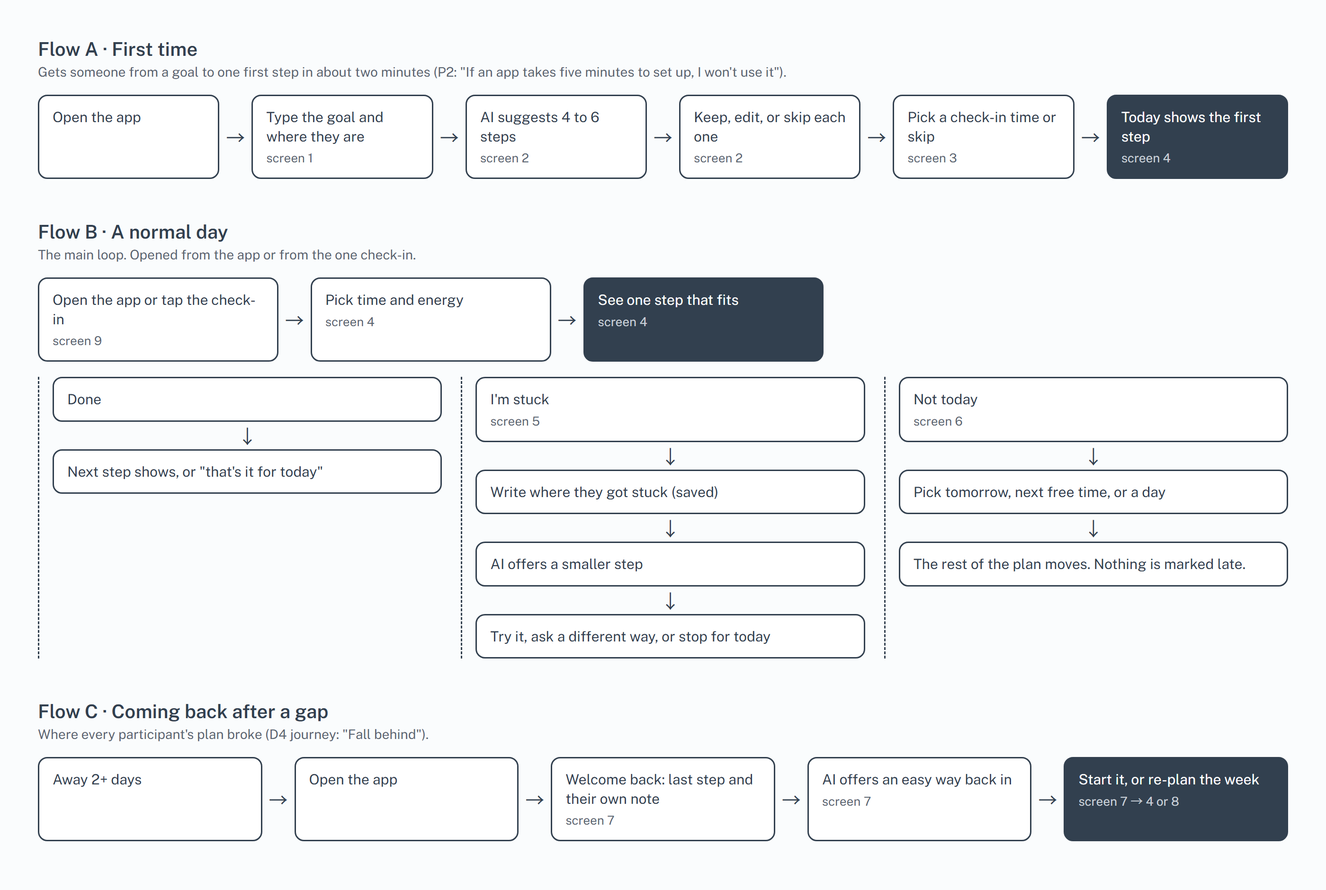
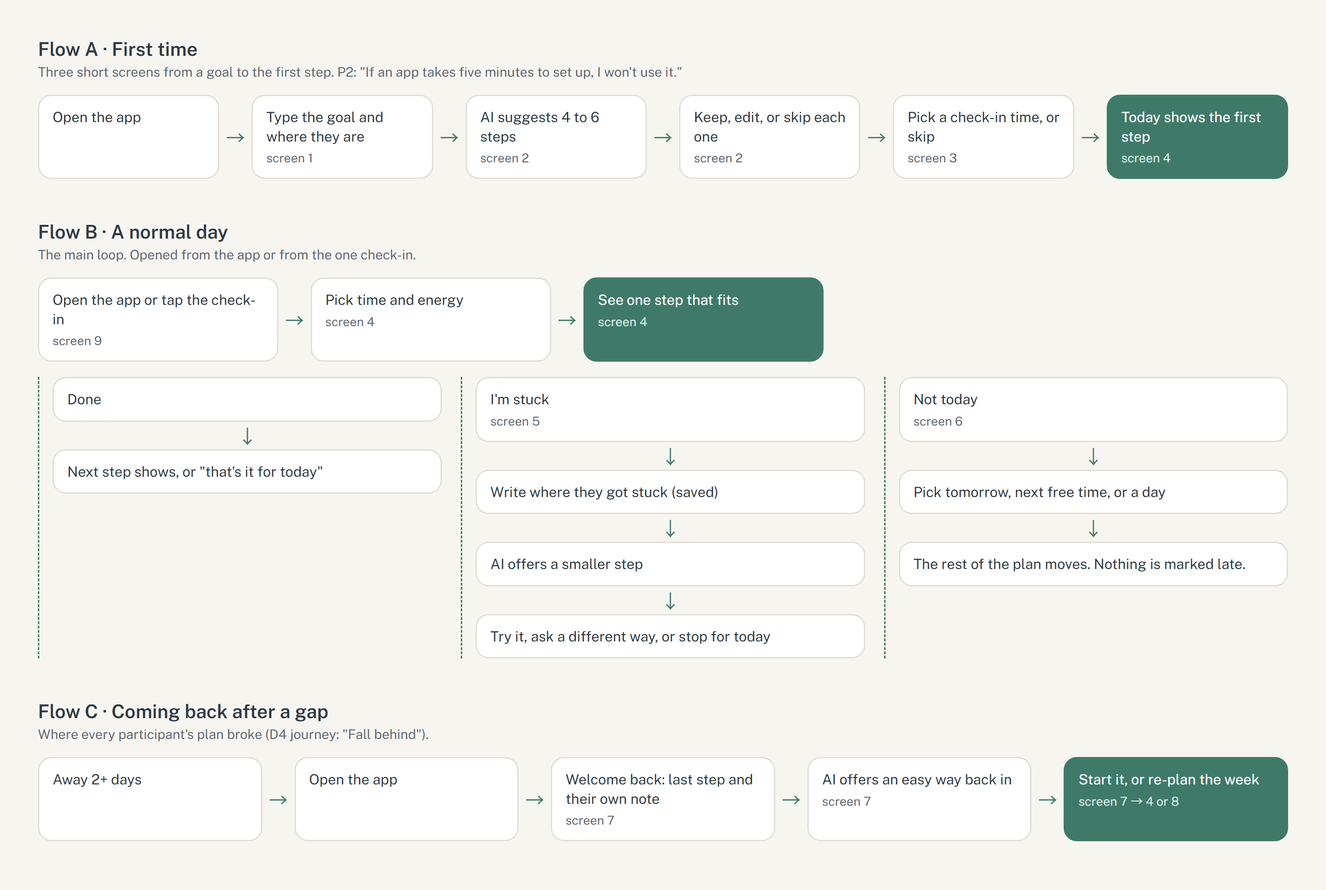
Restructure D5 as screen-by-screen walkthrough, fix consistency issues

diff --git a/index.html b/index.html
@@ -123,6 +123,12 @@
   .shot{ margin:26px 0 8px; }
   .shot img{ display:block; width:100%; height:auto; border:1px solid var(--line); background:#fff; }
 
+  /* ---- D5 screen walkthrough ---- */
+  .scr-group{ margin:34px 0 4px; color:var(--ink); }
+  .screens{ display:flex; flex-direction:column; }
+  .scr{ display:grid; grid-template-columns:200px 1fr; gap:28px; align-items:start; padding:24px 0; border-bottom:1px solid var(--line); scroll-margin-top:24px; }
+  .scr img{ display:block; width:100%; height:auto; }
+  .scr h4{ font-family:'Public Sans',sans-serif; font-weight:600; font-size:1rem; margin:4px 0 12px; }
   footer{ margin-top:70px; padding-top:22px; border-top:1px solid var(--line); color:var(--ink-faint); font-family:'IBM Plex Mono',monospace; font-size:12.5px; }
 
   @media (max-width:860px){
@@ -142,6 +148,7 @@
     section.doc h2{ font-size:1.6rem; }
     .persona{ flex-direction:column; }
     .stats{ gap:30px; }
+    .scr{ grid-template-columns:120px 1fr; gap:16px; }
   }
 
   @media print{
@@ -181,6 +188,9 @@
       <a class="sub" href="#p6">P6</a>
       <a href="#d4">Synthesis</a>
       <a href="#d5">Design (D5)</a>
+      <a class="sub" href="#d5-ia">IA &amp; flows</a>
+      <a class="sub" href="#d5-screens">Screens</a>
+      <a class="sub" href="#d5-mvp">MVP</a>
     </nav>
 
     <div class="content">
@@ -581,79 +591,108 @@
 
         <p class="lede measure" style="color:var(--ink);">The app gives you one small next step for your goal, based on how much time and energy you have right now. If you get stuck or skip a day, it makes the step smaller or moves it, so nothing piles up.</p>
 
-        <p class="measure">In the interviews, every plan broke down at the same point. It was after someone missed a day or got stuck (<a class="ref" href="#p1-q4f2">P1, Q4 follow-up</a>; <a class="ref" href="#p6-q4f2">P6, Q4 follow-up</a>; <a class="ref" href="#p2-q2p">P2, Q2 probe</a>). So the app is mostly about that moment, not about making a nice plan at the start. I'm making it a web app that fits a phone screen. P2 wants to use the free time "between classes" (<a class="ref" href="#p2-q5">P2, Q5</a>), and the check-in also has to reach your phone.</p>
+        <p class="measure">This section goes in this order: the idea, how the app is organized, the main flows, each screen with the answers behind it, and what's in the first prototype.</p>
 
-        <h3 id="d5-decisions">Decisions and where they came from</h3>
-        <p class="measure">Each row is one decision I made, the answers it came from, and the wireframe screen where you can see it.</p>
+        <h3 id="d5-idea">1. The idea in short</h3>
+        <p class="measure">In the interviews, every plan broke down at the same point. It was after someone missed a day or got stuck (<a class="ref" href="#p1-q4f2">P1, Q4 follow-up</a>; <a class="ref" href="#p6-q4f2">P6, Q4 follow-up</a>; <a class="ref" href="#p2-q2p">P2, Q2 probe</a>). So the app is mostly about that moment, not about making a nice plan at the start. It does three things:</p>
+        <ul class="measure">
+          <li><strong>One step at a time.</strong> It only shows the next step, sized to the time and energy you have (<a class="ref" href="#p6-q3p">P6, Q3 probe</a>; <a class="ref" href="#p2-q5">P2, Q5</a>).</li>
+          <li><strong>Missing a day changes the plan, not how you feel about it.</strong> Steps move, and nothing gets marked late (<a class="ref" href="#p1-q6">P1, Q6</a>; <a class="ref" href="#p6-q6f">P6, Q6 follow-up</a>).</li>
+          <li><strong>The AI suggests, and you decide.</strong> P1 and P6 picked B in Q5, P2 picked A, and nobody picked C (<a class="ref" href="#p1-q5f">P1</a>; <a class="ref" href="#p6-q5f">P6</a>; <a class="ref" href="#p2-q5f">P2</a>).</li>
+        </ul>
+        <p class="measure">It's a web app sized for a phone, because P2 wants to use the free time "between classes" (<a class="ref" href="#p2-q5">P2, Q5</a>) and the check-in has to reach your phone. You work on one goal at a time, since P6 had four goals "all at the same time" and P2 had three projects (<a class="ref" href="#p6-q1">P6, Q1</a>; <a class="ref" href="#p2-q1">P2, Q1</a>).</p>
+
+        <h3 id="d5-ia">2. Information architecture</h3>
+        <p class="measure">The app has three tabs: Today, Plan, and Settings. There's also a short setup the first time, and one check-in that comes from outside the app. "Welcome back" isn't its own page. It shows up instead of Today when you've been gone for 2+ days. The numbers match the screens in part 4.</p>
+        <figure class="shot">
+          <img src="ia.png?v=d5c" width="2800" height="1400" alt="Site map: the app splits into Set up (screens 1 to 3), Today (screens 4 to 7), Plan (screen 8), Settings (same options as screen 3), and the daily check-in outside the app (screen 9).">
+        </figure>
+
+        <h3 id="d5-flows">3. User flows</h3>
+        <p class="measure">Flow B is what someone does on a normal day. Flow C is the one I care about most, because that's where everyone's plan broke in D4.</p>
+        <figure class="shot">
+          <img src="flows.png?v=d5c" width="2800" height="1880" alt="Three flows. A, first time: open, type goal, AI suggests steps, keep/edit/skip, pick check-in, Today. B, a normal day: open or tap check-in, pick time and energy, see one step, then Done, I'm stuck (write where, smaller step), or Not today (pick when, plan shifts). C, coming back after a gap: away 2+ days, open, welcome back with last step and note, easy way back in, start or re-plan.">
+        </figure>
+
+        <h3 id="d5-screens">4. Wireframes, screen by screen</h3>
+        <p class="measure">The screens are grouped by the flow they belong to. Each one says what it does and which answers it comes from. I made them in <a href="https://www.figma.com/design/B1Z3TXK8JDF6rl2EUBCyGN">Figma</a>. The example goal (a portfolio website) is made up, but it's based on the kind of goals P2 and P6 talked about. In the real app, the AI writes the step text.</p>
+        <p class="measure">For color, I used a calm green for the main buttons and a soft yellow tag for anything the AI suggests, so you can always tell what's a suggestion and what's yours. I didn't use any red, because feeling guilty about missed tasks is what P1 and P6 said would make them quit.</p>
+
+        <p class="label scr-group">Flow A · First time</p>
+        <div class="screens">
+          <div class="scr"><img src="screens/s1.png" width="780" height="1688" alt="Screen 1, Add a goal: goal field, where are you with it, usual time chips, Suggest first steps button." loading="lazy">
+            <div><h4>Screen 1 · Add a goal</h4>
+              <p class="measure"><strong>What it does.</strong> You type one goal and where you are with it, then pick how much time you usually have.</p>
+              <p class="measure"><strong>Why.</strong> It starts with one goal because P6 and P2 were juggling several at once (<a class="ref" href="#p6-q1">P6, Q1</a>; <a class="ref" href="#p2-q1">P2, Q1</a>). Setup is only three screens, because P2 said "If an app takes five minutes to set up, I won't use it" (<a class="ref" href="#p2-q4f2">Q4 follow-up</a>).</p></div></div>
+          <div class="scr"><img src="screens/s2.png" width="780" height="1688" alt="Screen 2, Review suggested steps: four AI steps, each with Keep, Edit, Skip, plus Add my own step." loading="lazy">
+            <div><h4>Screen 2 · Review suggested steps</h4>
+              <p class="measure"><strong>What it does.</strong> The AI suggests a few first steps. You can keep, edit, or skip each one, or add your own.</p>
+              <p class="measure"><strong>Why.</strong> Two of three people wanted the tool to suggest while they approve or change it (<a class="ref" href="#p1-q5f">P1, Q5</a>; <a class="ref" href="#p6-q5f">P6, Q5</a>). P2 said "I know my school work better than an app does" (<a class="ref" href="#p2-q5f">Q5</a>), so nothing is final until you say so.</p></div></div>
+          <div class="scr"><img src="screens/s3.png" width="780" height="1688" alt="Screen 3, Check-in and calendar: once a day or only when I open it, time, Google Calendar toggles." loading="lazy">
+            <div><h4>Screen 3 · Check-in and calendar</h4>
+              <p class="measure"><strong>What it does.</strong> You pick one check-in a day or none, and connect Google Calendar. You can skip this screen.</p>
+              <p class="measure"><strong>Why.</strong> P6 wants a check-in at 4 PM (<a class="ref" href="#p6-q5">Q5</a>). However, P1 and P2 said too many notifications would make them quit (<a class="ref" href="#p1-q7">P1, Q7</a>; <a class="ref" href="#p2-q6f">P2, Q6 follow-up</a>). One check-in at a time you choose is my guess for both, and I still need to test it. The calendar is there because P2 said "Only if it works with the apps I already use" (<a class="ref" href="#p2-q6">Q6</a>).</p></div></div>
+        </div>
+
+        <p class="label scr-group">Flow B · A normal day</p>
+        <div class="screens">
+          <div class="scr"><img src="screens/s4.png" width="780" height="1688" alt="Screen 4, Today: time and energy chips, one next step card, Done, I'm stuck, Not today." loading="lazy">
+            <div><h4>Screen 4 · Today</h4>
+              <p class="measure"><strong>What it does.</strong> You pick your time and energy, and it shows only one step that fits. Then you tap Done, I'm stuck, or Not today.</p>
+              <p class="measure"><strong>Why.</strong> P6 freezes when there are "too many options" (<a class="ref" href="#p6-q3p">Q3 probe</a>). P2 said "you have 45 minutes, just do this one Figma frame" (<a class="ref" href="#p2-q5">Q5</a>) and "Energy matters more than time" (<a class="ref" href="#p2-q7">Q7</a>).</p></div></div>
+          <div class="scr"><img src="screens/s5.png" width="780" height="1688" alt="Screen 5, I'm stuck: note field, smaller suggested step, Try this instead, Ask a different way, Save my note and stop." loading="lazy">
+            <div><h4>Screen 5 · I'm stuck</h4>
+              <p class="measure"><strong>What it does.</strong> You write a few words about where you got stuck. It saves the note and suggests a smaller step. You can also just stop for today.</p>
+              <p class="measure"><strong>Why.</strong> Getting stuck is what made P1 start avoiding the work (<a class="ref" href="#p1-q3p">Q3 probe</a>). P1 also doesn't want every day to feel "like starting over" (<a class="ref" href="#p1-q6f">Q6 follow-up</a>), so the note gets used again on screen 7.</p></div></div>
+          <div class="scr"><img src="screens/s6.png" width="780" height="1688" alt="Screen 6, Not today: tomorrow, next free time on my calendar, or pick a day; optional reason chips; Move it." loading="lazy">
+            <div><h4>Screen 6 · Not today</h4>
+              <p class="measure"><strong>What it does.</strong> You move the step to tomorrow, the next free time on your calendar, or a day you pick. The rest of the plan moves with it, and nothing gets marked late.</p>
+              <p class="measure"><strong>Why.</strong> P1 wants a tool that "changes the plan when I fall behind instead of making me feel guilty" (<a class="ref" href="#p1-q6">Q6</a>). P6 said missed tasks piling up would make them quit (<a class="ref" href="#p6-q6f">Q6 follow-up</a>). The free-time option comes from P2 looking for time "between classes" (<a class="ref" href="#p2-q5">Q5</a>).</p></div></div>
+          <div class="scr"><img src="screens/s9.png" width="780" height="1688" alt="Screen 9, the one check-in: lock screen notification at 4:00 asking about the step, with Done and Not today." loading="lazy">
+            <div><h4>Screen 9 · The one check-in</h4>
+              <p class="measure"><strong>What it does.</strong> You get one notification a day at the time you picked, with Done and Not today. Tapping it opens Today.</p>
+              <p class="measure"><strong>Why.</strong> It's the same reason as screen 3. It's one check-in, not many. In the first prototype this will basically be a calendar reminder that opens Today. The buttons come later if testing shows the check-in helps.</p></div></div>
+        </div>
+
+        <p class="label scr-group">Flow C · Coming back, and the Plan tab</p>
+        <div class="screens">
+          <div class="scr"><img src="screens/s7.png" width="780" height="1688" alt="Screen 7, Welcome back: what you were on, your saved note, an easy 5-minute step, Start this, Re-plan my week." loading="lazy">
+            <div><h4>Screen 7 · Coming back after a few days</h4>
+              <p class="measure"><strong>What it does.</strong> After 2+ days away, it shows where you left off and your own note, not what you missed. Then it gives you an easy 5-minute step to get back in.</p>
+              <p class="measure"><strong>Why.</strong> Falling behind is where everyone dropped their plan (<a class="ref" href="#d4">D4 journey</a>). P1 said they'd stop using it if "it doesn't know where I got stuck" (<a class="ref" href="#p1-q6f">Q6 follow-up</a>).</p></div></div>
+          <div class="scr"><img src="screens/s8.png" width="780" height="1688" alt="Screen 8, Plan: focus goal steps with done, next, and later, Add a step, paused goals with Switch, Add another goal." loading="lazy">
+            <div><h4>Screen 8 · Plan</h4>
+              <p class="measure"><strong>What it does.</strong> It shows all the steps for your focus goal. You can edit them, add a step, or switch to a paused goal.</p>
+              <p class="measure"><strong>Why.</strong> People want to keep the final say on their plan. P6 said "I still want to be able to say 'I can't do that today'" (<a class="ref" href="#p6-q5f">Q5</a>). Other goals stay paused so Today only has one thing to show.</p></div></div>
+        </div>
+
+        <h3 id="d5-mvp">5. MVP for the first prototype (Nov 4)</h3>
         <div class="wrap-table">
           <table class="resp">
             <thead>
-              <tr><th>Decision</th><th>Why</th><th>Screen</th></tr>
+              <tr><th>In the first prototype</th><th>Not yet, and why</th></tr>
             </thead>
             <tbody>
-              <tr><td>The AI suggests steps, and you keep, edit, or skip each one</td><td>Two of three people picked B, and nobody picked C (<a class="ref" href="#p1-q5f">P1</a>, <a class="ref" href="#p6-q5f">P6</a>, <a class="ref" href="#p2-q5f">P2, Q5</a>). P6 still wants to be able to say "I can't do that today." So every AI step is labeled as a suggestion.</td><td>2, 5, 7</td></tr>
-              <tr><td>Today only shows one step</td><td>P6 freezes when there are "too many options" (<a class="ref" href="#p6-q3p">Q3 probe</a>). P1 wants "the next small problem to work on" (<a class="ref" href="#p1-q5">Q5</a>).</td><td>4</td></tr>
-              <tr><td>You pick your time and energy, and the step fits both</td><td>P2 said "you have 45 minutes, just do this one Figma frame" (<a class="ref" href="#p2-q5">Q5</a>) and "Energy matters more than time" (<a class="ref" href="#p2-q7">Q7</a>). P6 asked for "one 15-minute component" (<a class="ref" href="#p6-q5">Q5</a>).</td><td>4</td></tr>
-              <tr><td>"I'm stuck" asks where you got stuck, saves it, and gives you a smaller step</td><td>Getting stuck is what made P1 start avoiding the work (<a class="ref" href="#p1-q3p">P1, Q3 probe</a>). P1 also doesn't want every day to feel "like starting over" (<a class="ref" href="#p1-q6f">Q6 follow-up</a>).</td><td>5</td></tr>
-              <tr><td>"Not today" moves the step and the rest of the plan. Nothing gets marked late, and there's no overdue list</td><td>P1 wants a tool that "changes the plan when I fall behind instead of making me feel guilty" (<a class="ref" href="#p1-q6">Q6</a>). P6 said missed tasks piling up would make them quit (<a class="ref" href="#p6-q6f">Q6 follow-up</a>).</td><td>6, 8</td></tr>
-              <tr><td>If you're gone for 2+ days, it shows where you left off and your own note, not what you missed</td><td>Falling behind is where everyone dropped their plan (D4 journey). P1 needs it to know "where I got stuck" (<a class="ref" href="#p1-q6f">Q6 follow-up</a>).</td><td>7</td></tr>
-              <tr><td>It checks in once a day at most, at a time you pick, or never</td><td>P6 wants a check-in at 4 PM (<a class="ref" href="#p6-q5">Q5</a>). However, P1 and P2 both said too many notifications would make them quit (<a class="ref" href="#p1-q7">P1, Q7</a>; <a class="ref" href="#p2-q6f">P2, Q6 follow-up</a>). One check-in at a time you choose is my guess for both, and I still need to test it.</td><td>3, 9</td></tr>
-              <tr><td>Steps go into Google Calendar, and it doesn't check in during events</td><td>P2 said "Only if it works with the apps I already use" (<a class="ref" href="#p2-q6">Q6</a>), and doesn't want notifications "when I'm already stressed in class" (<a class="ref" href="#p2-q6f">Q6 follow-up</a>).</td><td>3, 6</td></tr>
-              <tr><td>You work on one goal at a time, and the other goals are paused</td><td>P6 had four goals "all at the same time," and P2 had three projects (<a class="ref" href="#p6-q1">P6, Q1</a>; <a class="ref" href="#p2-q1">P2, Q1</a>).</td><td>1, 8</td></tr>
-              <tr><td>Setup is three short screens, and you can skip it</td><td>P2 said "If an app takes five minutes to set up, I won't use it" (<a class="ref" href="#p2-q4f2">Q4 follow-up</a>).</td><td>1–3</td></tr>
+              <tr><td>Add a goal, and the AI suggests steps you can keep, edit, or skip (screens 1–2)</td><td><strong>Streaks, points, or a count of missed days.</strong> This is the kind of guilt P1 and P6 said would make them quit (Q6).</td></tr>
+              <tr><td>Today with time, energy, and one step (screen 4)</td><td><strong>More than one reminder a day.</strong> Same reason (<a class="ref" href="#p1-q7">P1, Q7</a>; <a class="ref" href="#p2-q6f">P2, Q6 follow-up</a>).</td></tr>
+              <tr><td>I'm stuck, with a saved note and a smaller step (screen 5)</td><td><strong>A friend or mentor checking on you.</strong> This was an open question in D4, so I'll ask about it in testing first.</td></tr>
+              <tr><td>Not today, where the plan moves and nothing is marked late (screen 6)</td><td><strong>Real help with a subject, like P1's math.</strong> "I'm stuck" only makes the step smaller. I don't want the AI to act like a tutor before I test if that's enough.</td></tr>
+              <tr><td>Welcome back after 2+ days, using the saved note (screen 7)</td><td><strong>Login and syncing across devices.</strong> For testing, the data just stays in the browser.</td></tr>
+              <tr><td>Plan tab: edit steps, pause or switch goals (screen 8)</td><td><strong>Buttons inside the notification (screen 9).</strong> In v1, the check-in is a calendar reminder that opens Today.</td></tr>
+              <tr><td>Google Calendar: add steps as events and find free time (screens 3, 6)</td><td></td></tr>
+              <tr><td>One check-in a day at a time you pick, or none (screens 3, 9)</td><td></td></tr>
             </tbody>
           </table>
         </div>
+        <p class="measure"><strong>How I'll build it.</strong> I'm building a small web app with Claude Code that works on a phone screen. The AI steps come from the Claude API through one small server function, so the API key isn't in the page. Google Calendar connects through Google sign-in in testing mode, which works for 3–5 test users. I'll host it on Vercel, since GitHub Pages can't run the server function. I'm keeping the setup simple on purpose, so I can spend the two build weeks on Flow B and Flow C instead.</p>
 
-        <h3 id="d5-ia">Information architecture</h3>
-        <p class="measure">The app has three tabs: Today, Plan, and Settings. There's also a short setup the first time you use it, and one check-in that comes from outside the app. "Welcome back" isn't its own page. It just shows up instead of Today when you've been gone for 2+ days.</p>
-        <figure class="shot">
-          <img src="ia.png?v=d5a" width="2800" height="1400" alt="Site map: the app splits into Set up (add a goal, review steps, check-in and calendar), Today (time and energy, one next step, I'm stuck, Not today, Welcome back), Plan (focus goal steps, paused goals), Settings (check-in, Google Calendar), and the daily check-in outside the app. Numbers match the wireframe screens.">
-        </figure>
-
-        <h3 id="d5-flows">User flows</h3>
-        <p class="measure">Flow B is the main loop. Flow C is the one I care about most, because that's where everyone's plan broke in D4.</p>
-        <figure class="shot">
-          <img src="flows.png?v=d5a" width="2800" height="1880" alt="Three flows. A, first time: open, type goal, AI suggests steps, keep/edit/skip, pick check-in, Today. B, a normal day: open or tap check-in, pick time and energy, see one step, then Done, I'm stuck (write where, smaller step), or Not today (pick when, plan shifts). C, coming back after a gap: away 2+ days, open, welcome back with last step and note, easy way back in, start or re-plan.">
-        </figure>
-
-        <h3 id="d5-wireframes">Mid-fi wireframes</h3>
-        <p class="measure">These are nine phone screens. The numbers match the decisions table, the site map, and the flows. I made up the example goal (a portfolio website), but it's based on the kind of goals P2 and P6 talked about. The step text is just an example. In the real app, the AI writes it. I made them in <a href="https://www.figma.com/design/B1Z3TXK8JDF6rl2EUBCyGN">Figma</a>.</p>
-        <p class="measure">For color, I went with a calm green for the main buttons and a soft yellow tag for anything the AI suggests. So you can always tell what's a suggestion and what's yours. I didn't use any red, because P1 and P6 said feeling guilty about missed tasks is what would make them quit (<a class="ref" href="#p1-q6">P1, Q6</a>; <a class="ref" href="#p6-q6f">P6, Q6 follow-up</a>).</p>
-        <figure class="shot">
-          <img src="wireframes.png?v=d5fig" width="1490" height="2992" alt="Nine mid-fidelity phone wireframes: 1 add a goal, 2 review suggested steps with keep/edit/skip, 3 check-in and calendar settings, 4 Today with time and energy chips and one next step with Done, I'm stuck, Not today, 5 I'm stuck with a note and a smaller suggested step, 6 Not today with tomorrow, next free calendar time, or pick a day, 7 welcome back showing the last step and the person's note, 8 plan with the focus goal's steps and paused goals, 9 a lock-screen check-in with Done and Not today.">
-        </figure>
-
-        <h3 id="d5-mvp">MVP feature set (prototype v1, Nov 4)</h3>
-        <p class="measure"><strong>What's in the MVP</strong></p>
+        <h3 id="d5-test">6. What I'll check in testing</h3>
+        <p class="measure">These are the open questions from D4 and how the prototype will help answer them.</p>
         <ul class="measure">
-          <li>Add one goal, and the AI suggests 4–6 steps. You can keep, edit, or skip them, or add your own.</li>
-          <li>Today: pick your time and energy, and see one step that fits.</li>
-          <li>Every step has Done, I'm stuck, and Not today.</li>
-          <li>I'm stuck: you write a short note, and the AI suggests a smaller step.</li>
-          <li>Not today: the step moves, and the plan shifts without marking anything late.</li>
-          <li>Welcome back after 2+ days, using the note you saved.</li>
-          <li>Plan tab: see and edit the steps, pause a goal, or switch to another goal.</li>
-          <li>Google Calendar: steps get added as events, and the app reads your busy times so it can suggest the next free time.</li>
-          <li>One check-in a day at a time you pick, or none.</li>
-        </ul>
-        <p class="measure"><strong>What's not in the MVP, and why</strong></p>
-        <ul class="measure">
-          <li><strong>Streaks, points, or a count of missed days.</strong> This is the kind of guilt P1 and P6 said would make them quit (Q6).</li>
-          <li><strong>More than one reminder a day.</strong> Same reason (<a class="ref" href="#p1-q7">P1, Q7</a>; <a class="ref" href="#p2-q6f">P2, Q6 follow-up</a>).</li>
-          <li><strong>A friend or mentor checking on you.</strong> This was an open question in D4 and I can't answer it yet. So I'm going to ask about it in testing first.</li>
-          <li><strong>Real help with a subject, like P1's math.</strong> In the MVP, "I'm stuck" only makes the step smaller or asks you a question. It doesn't teach the subject. I don't want the AI to act like a tutor before I test if a smaller step is enough.</li>
-          <li><strong>Login and syncing across devices.</strong> For testing, the data just stays in the browser.</li>
-          <li><strong>Buttons inside the check-in notification (screen 9).</strong> In v1, the check-in is basically a calendar reminder that opens Today. If testing shows the check-in is worth it, I'll add real notifications with buttons later.</li>
-        </ul>
-        <p class="measure"><strong>How I'll build it.</strong> I'm building a small web app with Claude Code that works on a phone screen. The AI steps come from the Claude API through one small server function, so the API key isn't in the page. Google Calendar connects through Google sign-in in testing mode, which works for 3–5 test users. I'll host it on GitHub Pages or Vercel. I'm keeping the setup simple on purpose, so I can spend the two build weeks on Flow B and Flow C instead.</p>
-
-        <h3>What D5 does with the open questions from D4</h3>
-        <ul class="measure">
-          <li><strong>Can a check-in from AI feel like real accountability?</strong> I'm not solving this yet. The MVP has one check-in, and in testing I'll ask P6 if it felt like someone was actually checking.</li>
-          <li><strong>What happens on the first day someone misses a step?</strong> That's what "Not today" (screen 6) and "Welcome back" (screen 7) are for. Testing will show if they really feel guilt-free.</li>
-          <li><strong>Can it help with a specific subject?</strong> Not in the MVP (see above). I'll watch whether a smaller step is enough for someone stuck on something like math.</li>
-          <li><strong>P2 picked A but described B.</strong> Every step is labeled as a suggestion and can be skipped, so I can watch whether P2 actually uses the suggestions or ignores them.</li>
+          <li><strong>Can a check-in from AI feel like real accountability?</strong> The prototype has one check-in, and I'll ask P6 if it felt like someone was actually checking.</li>
+          <li><strong>What happens on the first day someone misses a step?</strong> I'll watch if "Not today" and "Welcome back" (screens 6 and 7) really feel guilt-free.</li>
+          <li><strong>Is a smaller step enough when someone is stuck on a subject?</strong> I'll check this with someone stuck on something like math.</li>
+          <li><strong>P2 picked A but described B.</strong> Every step is labeled as a suggestion, so I can see if P2 actually uses the suggestions or ignores them.</li>
         </ul>
       </section>
 

diff --git a/d5-src/diagrams.html b/d5-src/diagrams.html
@@ -5,23 +5,23 @@
 <title>D5 diagrams</title>
 <link rel="stylesheet" href="https://fonts.googleapis.com/css2?family=Public+Sans:wght@400;500;600&family=IBM+Plex+Mono:wght@400;500&display=swap">
 <style>
-  :root{ --ink:#32404F; --soft:#5A6571; --line:#C9D0D8; --fill:#EEF1F4; --paper:#FAFCFD; }
+  :root{ --ink:#2E3A45; --soft:#5E6873; --line:#E4DFD5; --fill:#E4EFEA; --paper:#F7F5F0; --green:#3F7A68; }
   *{ box-sizing:border-box; }
   body{ margin:0; background:var(--paper); font-family:'Public Sans',sans-serif; color:var(--ink); }
   section{ display:none; padding:40px; width:1400px; }
   section:target{ display:block; }
   .k{ font-family:'IBM Plex Mono',monospace; font-size:12px; text-transform:uppercase; color:var(--soft); }
-  .n{ border:1.5px solid var(--ink); border-radius:10px; background:#fff; padding:12px 14px; font-size:15px; line-height:1.35; }
+  .n{ border:1.5px solid var(--line); border-radius:14px; background:#fff; padding:12px 14px; font-size:15px; line-height:1.35; }
   .n .k{ display:block; margin-bottom:4px; }
-  .n.dark{ background:var(--ink); color:#fff; } .n.dark .k{ color:#C9D0D8; }
-  .n.soft{ border-color:var(--line); background:var(--fill); }
+  .n.dark{ background:var(--green); border-color:var(--green); color:#fff; } .n.dark .k{ color:#DCEBE4; }
+  .n.soft{ border-color:var(--fill); background:var(--fill); }
   .n small{ display:block; color:var(--soft); font-size:13px; margin-top:4px; }
-  .n.dark small{ color:#C9D0D8; }
+  .n.dark small{ color:#DCEBE4; }
   /* IA */
   .root{ width:260px; margin:0 auto 34px; text-align:center; }
-  .cols{ display:grid; grid-template-columns:repeat(5,1fr); gap:20px; position:relative; padding-top:26px; border-top:1.5px solid var(--ink); }
+  .cols{ display:grid; grid-template-columns:repeat(5,1fr); gap:20px; position:relative; padding-top:26px; border-top:1.5px solid var(--green); }
   .col{ display:flex; flex-direction:column; gap:10px; position:relative; }
-  .col::before{ content:""; position:absolute; top:-26px; left:50%; height:26px; border-left:1.5px solid var(--ink); }
+  .col::before{ content:""; position:absolute; top:-26px; left:50%; height:26px; border-left:1.5px solid var(--green); }
   .col .n:not(:first-child){ margin-left:18px; }
   /* flows */
   .flow{ margin-bottom:44px; }
@@ -29,9 +29,9 @@
   .flow p{ margin:0 0 16px; color:var(--soft); font-size:14px; }
   .chain{ display:flex; align-items:stretch; gap:0; }
   .chain .n{ flex:1; }
-  .arr{ flex:0 0 34px; display:flex; align-items:center; justify-content:center; font-size:20px; color:var(--ink); }
+  .arr{ flex:0 0 34px; display:flex; align-items:center; justify-content:center; font-size:20px; color:var(--green); }
   .branches{ display:grid; grid-template-columns:repeat(3,1fr); gap:20px; margin-top:16px; }
-  .branch{ border-left:1.5px dashed var(--ink); padding-left:14px; }
+  .branch{ border-left:1.5px dashed var(--green); padding-left:14px; }
   .branch .chain{ flex-direction:column; gap:0; }
   .branch .arr{ flex:0 0 26px; }
 </style>
@@ -39,7 +39,7 @@
 <body>
 
 <section id="ia">
-  <div class="n dark root"><span class="k">App</span>One focus goal at a time</div>
+  <div class="n root" style="background:#2E3A45;color:#fff;border-color:#2E3A45"><span class="k" style="color:#C9D0D8">App</span>One focus goal at a time</div>
   <div class="cols">
     <div class="col">
       <div class="n dark"><span class="k">First time only</span>Set up</div>
@@ -58,16 +58,16 @@
     <div class="col">
       <div class="n dark"><span class="k">Tab</span>Plan</div>
       <div class="n">8 · Focus goal steps<small>done, next, later · edit, add, reorder</small></div>
-      <div class="n">8 · Paused goals<small>switch focus, add a goal</small></div>
+      <div class="n">8 · Paused goals<small>switch focus, add another goal</small></div>
     </div>
     <div class="col">
       <div class="n dark"><span class="k">Tab</span>Settings</div>
-      <div class="n">Check-in<small>time, or off</small></div>
-      <div class="n">Google Calendar<small>connect, add steps, quiet during events</small></div>
+      <div class="n">Check-in<small>same options as screen 3</small></div>
+      <div class="n">Google Calendar<small>same options as screen 3</small></div>
     </div>
     <div class="col">
       <div class="n dark"><span class="k">Outside the app</span>Check-in</div>
-      <div class="n">9 · One notification a day<small>Done · Not today, right from the notification</small></div>
+      <div class="n">9 · One notification a day<small>Done · Not today. In v1 it is a calendar reminder that opens Today</small></div>
     </div>
   </div>
 </section>
@@ -75,13 +75,13 @@
 <section id="flows">
   <div class="flow">
     <h3>Flow A · First time</h3>
-    <p>Gets someone from a goal to one first step in about two minutes (P2: "If an app takes five minutes to set up, I won't use it").</p>
+    <p>Three short screens from a goal to the first step. P2: "If an app takes five minutes to set up, I won't use it."</p>
     <div class="chain">
       <div class="n">Open the app</div><div class="arr">→</div>
       <div class="n">Type the goal and where they are<small>screen 1</small></div><div class="arr">→</div>
       <div class="n">AI suggests 4 to 6 steps<small>screen 2</small></div><div class="arr">→</div>
       <div class="n">Keep, edit, or skip each one<small>screen 2</small></div><div class="arr">→</div>
-      <div class="n">Pick a check-in time or skip<small>screen 3</small></div><div class="arr">→</div>
+      <div class="n">Pick a check-in time, or skip<small>screen 3</small></div><div class="arr">→</div>
       <div class="n dark">Today shows the first step<small>screen 4</small></div>
     </div>
   </div>
